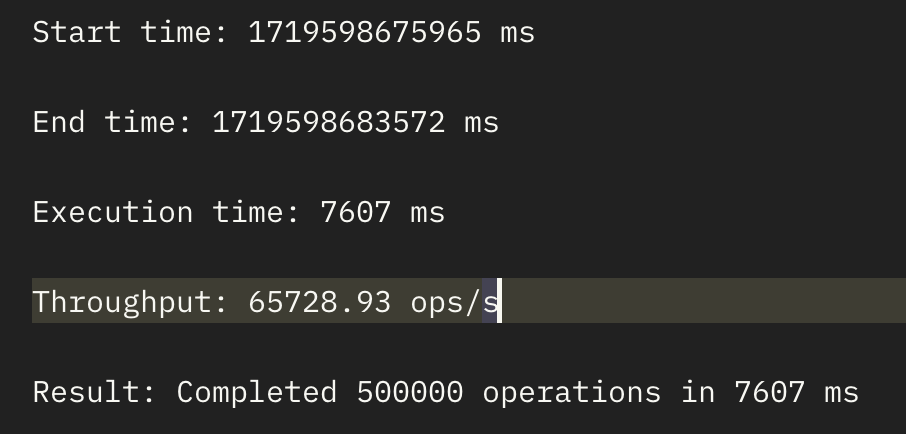
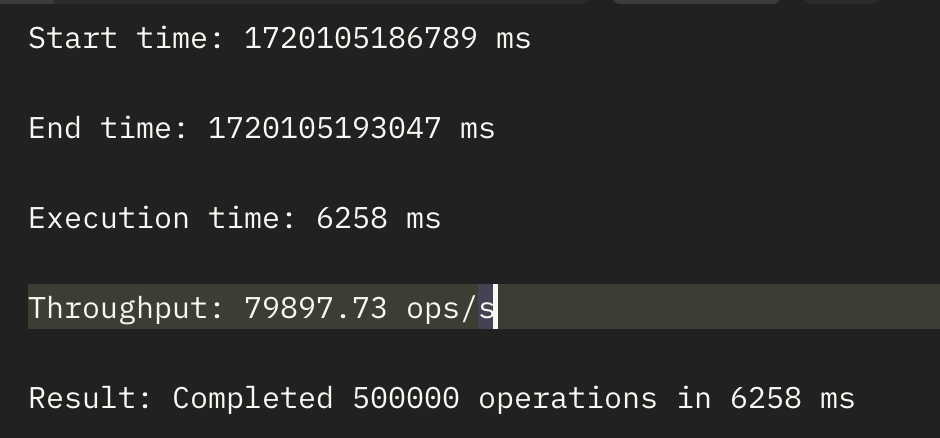
chore/readme: update benchmark

diff --git a/README_benchmark.md b/README_benchmark.md
@@ -21,12 +21,12 @@ curl --location --request POST 'http://localhost:8900/api/balance-benchmark/warm
 
 Benchmark deposit
 ```shell
-curl --location --request POST 'http://localhost:8900/api/balance-benchmark/benchmark/200000'
+curl --location --request POST 'http://localhost:8900/api/balance-benchmark/benchmark/500000'
 ```
 
-Result of sending 200,000 write request to cluster:
+Result of sending 500,000 write request to cluster:
 
-![benchmark-200k.png](docs/benchmark/benchmark-200k.png)
+<img style="width: 400px; max-width: 100vw; border: 2px solid grey;" src="./docs/benchmark/simple-benchmark.png" alt="simple benchmark">
 
 ## Using Ghz for benchmarking the `cluster` nodes (`leader`, `follower`)
 We open many grpc connections to the `leader` node. 

diff --git a/README.md b/README.md
@@ -13,7 +13,7 @@
 ![kafka-badge](https://img.shields.io/badge/Apache_Kafka-231F20?style=for-the-badge&logo=apache-kafka&logoColor=white)
 
 A simple high performance bank application using command sourcing.
-- Process around `65.000` **write-requests** per second on a single `leader` node.
+- Process around `80,000` **write-requests** per second on a single `leader` node.
 
   Result of sending 500k deposit-requests to the `leader` (running on a MacBook Pro 13-inch, M1, 2020):
 
